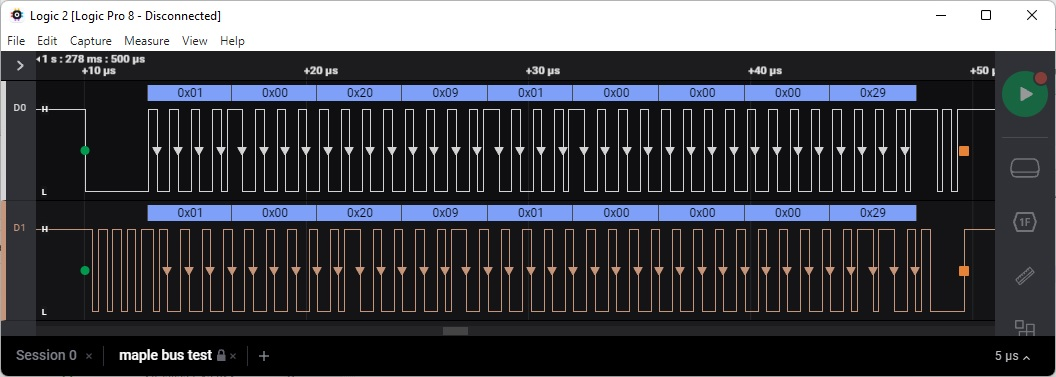
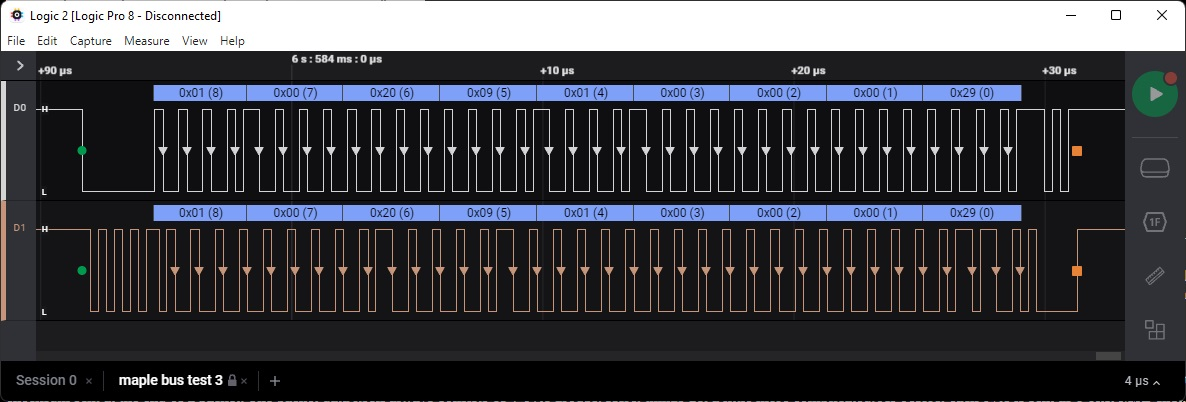
Improvements
- Print number of bytes left in bubbles
- Updated end detection logic

diff --git a/src/MapleBusAnalyzer.cpp b/src/MapleBusAnalyzer.cpp
@@ -1,6 +1,8 @@
 #include "MapleBusAnalyzer.h"
 #include "MapleBusAnalyzerSettings.h"
 #include <AnalyzerChannelData.h>
+#include <string>
+#include <sstream>
 
 MapleBusAnalyzer::MapleBusAnalyzer()
 :	Analyzer2(),  
@@ -68,6 +70,13 @@ void MapleBusAnalyzer::WorkerThread()
     bool errorDetected = false;
 	while(true)
     {
+        if( errorDetected )
+        {
+            // These markers tend to collide with markers that matter
+            // mResults->AddMarker( mSerialA->GetSampleNumber(), AnalyzerResults::ErrorX, mSettings->mInputChannelA );
+            // mResults->AddMarker( mSerialB->GetSampleNumber(), AnalyzerResults::ErrorX, mSettings->mInputChannelB );
+        }
+
         AdvanceToNeutral();
 
         if(errorDetected)
@@ -132,6 +141,8 @@ void MapleBusAnalyzer::WorkerThread()
 
         bool endDetected = false;
         errorDetected = false;
+        S32 totalBytesExpected = -1;
+        S32 numBytesLeftExpected = -1;
         while( !endDetected && !errorDetected )
         {
             U64 startingSample = mSerialA->GetSampleNumber();
@@ -166,82 +177,50 @@ void MapleBusAnalyzer::WorkerThread()
                     clock->AdvanceToNextEdge();
                 }
 
+                // Go to clock falling edge
                 clock->AdvanceToNextEdge();
                 U64 clockEdgeSample = clock->GetSampleNumber();
 
-
-
-
-
-                
                 U32 numDataEdges = 0;
                 if( i == 0 )
                 {
-                    // TODO: This needs to be cleaned up.
-                    // This is very very rough. I wrote it in a way that helped me debug.
-
                     // Check for END
-                    while( data->GetSampleOfNextEdge() < clockEdgeSample )
+                    while( numDataEdges < 3 && data->GetSampleOfNextEdge() < clockEdgeSample )
                     {
-                        data->AdvanceToNextEdge();
+                        if( numDataEdges < 2 )
+                        {
+                            data->AdvanceToNextEdge();
+                        }
                         numDataEdges++;
                     }
-                    if( data->GetBitState() == BIT_LOW )
+                    if( numDataEdges == 2 )
                     {
-                        // Could be an end state
+                        // Either we reached the end or error detected
                         U64 markerBegin = data->GetSampleNumber();
                         U64 markerEnd = data->GetSampleOfNextEdge();
-                        if (clock->GetSampleOfNextEdge() < markerEnd)
+                        U32 numClockEdges = 0;
+
+                        for( ; numClockEdges < 3 && clock->GetSampleOfNextEdge() < markerEnd; ++numClockEdges )
                         {
-                            // This goes to rising edge
+                            // Go to rising then falling then rising
                             clock->AdvanceToNextEdge();
-                            if( clock->GetSampleOfNextEdge() < markerEnd )
-                            {
-                                // Either error or end detected
-                                // Goes to falling edgs
-                                clock->AdvanceToNextEdge();
-                                if( clock->GetSampleOfNextEdge() < markerEnd )
-                                {
-                                    clock->AdvanceToNextEdge();
-                                    if( clock->GetSampleOfNextEdge() > markerEnd )
-                                    {
-                                        endDetected = true;
-                                        mResults->AddMarker( markerEnd, AnalyzerResults::Stop, mSettings->mInputChannelA );
-                                        mResults->AddMarker( markerEnd, AnalyzerResults::Stop, mSettings->mInputChannelB );
-                                        continue;
-                                    }
-                                    else
-                                    {
-                                        errorDetected = true;
-                                        continue;
-                                    }
-                                }
-                                else
-                                {
-                                    errorDetected = true;
-                                    continue;
-                                }
-                            }
-                            else if( numDataEdges <= 1 )
-                            {
-                                // Mistakes were made - this looks like a normal bit, and it was 0
-                                AlignSerialMarkers();
-                                continue;
-                            }
-                            else
-                            {
-                                errorDetected = true;
-                                continue;
-                            }
                         }
+
+                        if( numClockEdges == 3 && clock->GetSampleOfNextEdge() > markerEnd )
+                        {
+                            endDetected = true;
+                            mResults->AddMarker( markerEnd, AnalyzerResults::Stop, mSettings->mInputChannelA );
+                            mResults->AddMarker( markerEnd, AnalyzerResults::Stop, mSettings->mInputChannelB );
+                            mSerialA->AdvanceToAbsPosition( markerEnd );
+                            mSerialB->AdvanceToAbsPosition( markerEnd );
+                        }
+                        else
+                        {
+                            errorDetected = true;
+                        }
+                        continue;
                     }
                 }
-
-
-
-
-
-
 
                 while( numDataEdges < 2 && data->GetSampleOfNextEdge() < clockEdgeSample )
                 {
@@ -274,8 +253,25 @@ void MapleBusAnalyzer::WorkerThread()
             if( !endDetected && !errorDetected )
             {
                 // we have a byte to save.
+                if( totalBytesExpected < 0 )
+                {
+                    // This is the first byte which tells us how many extra 32-bit words to expect
+                    totalBytesExpected = b * 4;
+                    // Add 4 bytes for the first frame
+                    totalBytesExpected += 4;
+                    // Add 1 byte for the CRC value
+                    totalBytesExpected += 1;
+
+                    numBytesLeftExpected = totalBytesExpected - 1;
+                }
+                else if( numBytesLeftExpected > 0 )
+                {
+                    --numBytesLeftExpected;
+                }
+
                 Frame frame;
                 frame.mData1 = b;
+                frame.mData2 = numBytesLeftExpected;
                 frame.mFlags = 0;
                 frame.mStartingSampleInclusive = startingSample;
                 frame.mEndingSampleInclusive = mSerialB->GetSampleNumber();

diff --git a/src/MapleBusAnalyzerResults.cpp b/src/MapleBusAnalyzerResults.cpp
@@ -21,9 +21,11 @@ void MapleBusAnalyzerResults::GenerateBubbleText( U64 frame_index, Channel& chan
 	ClearResultStrings();
 	Frame frame = GetFrame( frame_index );
 
-	char number_str[128];
-	AnalyzerHelpers::GetNumberString( frame.mData1, display_base, 8, number_str, 128 );
-	AddResultString( number_str );
+	char number_str[ 16 ];
+    AnalyzerHelpers::GetNumberString( frame.mData1, display_base, 8, number_str, sizeof(number_str) );
+    char output_str[ 128 ];
+    snprintf( output_str, sizeof( output_str ), "%s (%u)", number_str, frame.mData2 );
+    AddResultString( output_str );
 }
 
 void MapleBusAnalyzerResults::GenerateExportFile( const char* file, DisplayBase display_base, U32 export_type_user_id )
